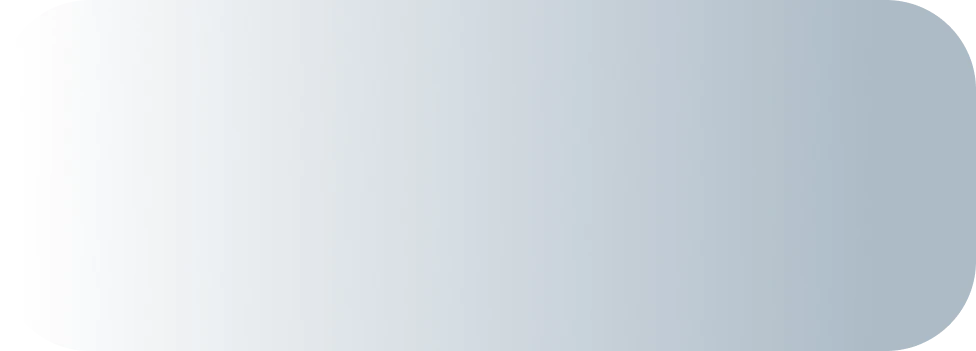
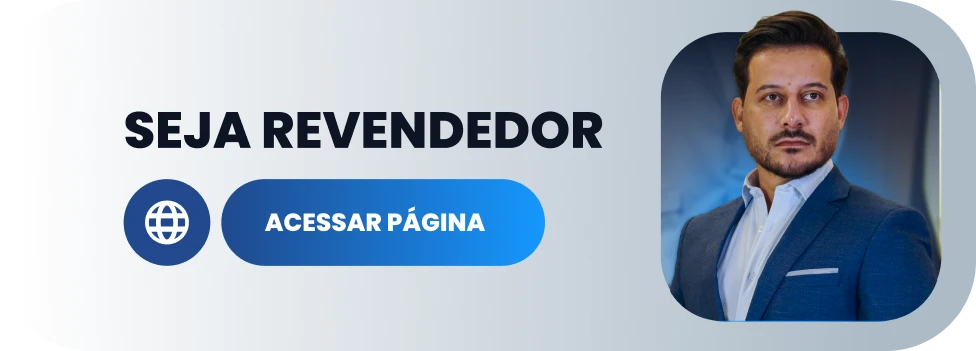
video

diff --git a/script.js b/script.js
@@ -1,3 +1,70 @@
+/* ---------- Reprodução HLS (Mux) ----------
+   O Mux entrega .m3u8. Safari e iOS tocam nativo; nos demais navegadores
+   a hls.js é carregada sob demanda, só quando existe um .m3u8 para tocar.  */
+const HLS_CDN = 'https://cdn.jsdelivr.net/npm/hls.js@1/dist/hls.min.js';
+let hlsCarregando = null;
+
+function carregarHls() {
+    if (window.Hls) return Promise.resolve(window.Hls);
+
+    if (!hlsCarregando) {
+        hlsCarregando = new Promise((resolve, reject) => {
+            const script = document.createElement('script');
+            script.src = HLS_CDN;
+            script.onload = () => resolve(window.Hls);
+            script.onerror = reject;
+            document.head.appendChild(script);
+        });
+    }
+
+    return hlsCarregando;
+}
+
+function destruirHls(elemento) {
+    if (elemento && elemento._hls) {
+        elemento._hls.destroy();
+        elemento._hls = null;
+    }
+}
+
+// Aponta o <video> para a fonte, escolhendo o caminho certo (.m3u8 ou arquivo)
+function definirFonteDoVideo(elemento, src) {
+    destruirHls(elemento);
+
+    const ehHls = /\.m3u8(\?|$)/i.test(src);
+
+    if (!ehHls) {
+        elemento.src = src;
+        elemento.load();
+        return;
+    }
+
+    // Safari e iOS tocam HLS sem biblioteca
+    if (elemento.canPlayType('application/vnd.apple.mpegurl')) {
+        elemento.src = src;
+        elemento.load();
+        return;
+    }
+
+    carregarHls()
+        .then((Hls) => {
+            if (!Hls || !Hls.isSupported()) {
+                elemento.src = src;
+                elemento.load();
+                return;
+            }
+
+            const hls = new Hls({ enableWorker: true });
+            hls.loadSource(src);
+            hls.attachMedia(elemento);
+            elemento._hls = hls;
+        })
+        .catch(() => {
+            elemento.src = src;
+            elemento.load();
+        });
+}
+
 const popup = document.getElementById('video-popup');
 const popupBox = popup ? popup.querySelector('.popup-box') : null;
 const video = popup ? popup.querySelector('.popup-video') : null;
@@ -5,11 +72,16 @@ const openBtn = document.getElementById('open-popup');
 const closeBtn = document.getElementById('close-popup');
 const muteBtn = document.getElementById('mute-btn');
 const expandBtn = document.getElementById('popup-expand');
+
+// O aviso de som some de vez depois do primeiro clique no botão
+let avisoSomVisto = false;
 const chatBubble = document.getElementById('chat-bubble');
 const progressContainer = document.getElementById('story-progress');
 const shareBtn = document.getElementById('share-btn');
+/* Vídeos do popup da história (topo).
+   Playback ID do Mux vira: https://stream.mux.com/PLAYBACK_ID.m3u8 */
 const stories = [
-    { src: 'video/video8.mp4' }
+    { src: 'https://stream.mux.com/Bip1E47IJ9GFIdTXvzC4x9heMzkRGPD2TBZpv56xo7E.m3u8' }
 
 ];
  
@@ -93,8 +165,7 @@ function loadStory(index) {
         return;
     }
 
-    video.src = stories[index].src;
-    video.load();
+    definirFonteDoVideo(video, stories[index].src);
     video.currentTime = 0;
     video.muted = isMuted;
 
@@ -149,6 +220,7 @@ function openPopup() {
         muteBtn.textContent = '🔇';
         muteBtn.setAttribute('aria-label', 'Ativar som');
     }
+    popup.classList.toggle('is-hint', !avisoSomVisto);
     loadStory(0);
     setTimeout(startStoryProgress, 120);
 }
@@ -160,8 +232,10 @@ function closePopup() {
     clearStoryTimer();
     video.pause();
     video.currentTime = 0;
+    destruirHls(video);
     video.removeAttribute('src');
     video.load();
+    if (popupBox) popupBox.style.removeProperty('--ratio'); // volta ao padrão do CSS
     progressElapsed = 0;
     isMuted = true;
     isPaused = false;
@@ -189,6 +263,9 @@ if (muteBtn && video) {
         video.muted = isMuted;
         muteBtn.textContent = isMuted ? '🔇' : '🔊';
         muteBtn.setAttribute('aria-label', isMuted ? 'Ativar som' : 'Silenciar');
+
+        avisoSomVisto = true;
+        popup.classList.remove('is-hint');
     });
 }
 
@@ -281,6 +358,11 @@ if (video) {
     });
 
     video.addEventListener('loadedmetadata', () => {
+        // A caixa assume a proporção real do vídeo (retrato, quadrado ou paisagem)
+        if (popupBox && video.videoWidth && video.videoHeight) {
+            popupBox.style.setProperty('--ratio', (video.videoWidth / video.videoHeight).toFixed(4));
+        }
+
         if (popup && popup.classList.contains('active')) {
             progressElapsed = 0;
             startStoryProgress();
@@ -429,6 +511,7 @@ function startStoryLoop() {
 function clearStoryMedia() {
     if (storyMedia && storyMedia.tagName === 'VIDEO') {
         storyMedia.pause();
+        destruirHls(storyMedia);
         storyMedia.removeAttribute('src');
         storyMedia.load();
     }
@@ -449,7 +532,7 @@ function closeStoryModal() {
     stopStoryLoop();
     clearStoryMedia();
     clearEndCard();
-    videoModal.classList.remove('active', 'is-paused', 'is-image');
+    videoModal.classList.remove('active', 'is-paused', 'is-image', 'is-hint');
     groupIndex = -1;
     itemIndex = 0;
     storyElapsed = 0;
@@ -467,6 +550,8 @@ function setStoryMuted(muted) {
         videoModalMute.textContent = muted ? '🔇' : '🔊';
         videoModalMute.setAttribute('aria-label', muted ? 'Ativar som' : 'Silenciar');
     }
+
+    videoModal.classList.toggle('is-hint', muted && !avisoSomVisto);
 }
 
 function showItem(index) {
@@ -489,12 +574,12 @@ function showItem(index) {
 
     if (isVideo) {
         const video = document.createElement('video');
-        video.src = item.src;
         video.playsInline = true;
         video.autoplay = true;
         video.preload = 'auto';
         video.muted = storyMuted;
         video.setAttribute('playsinline', '');
+        definirFonteDoVideo(video, item.src); // aceita .mp4 e .m3u8 do Mux
 
         video.addEventListener('loadedmetadata', () => {
             storyDuration = (video.duration && Number.isFinite(video.duration))
@@ -714,7 +799,9 @@ if (videoModalEndExit) videoModalEndExit.addEventListener('click', closeStoryMod
 if (videoModalMute) {
     videoModalMute.addEventListener('click', (event) => {
         event.stopPropagation();
+        avisoSomVisto = true;
         setStoryMuted(!storyMuted);
+        videoModal.classList.remove('is-hint');
     });
 }
 

diff --git a/index.html b/index.html
@@ -22,6 +22,7 @@
         })(window, document, "clarity", "script", "tfwazt7wte");
     </script>
     <title>Don Diego Teixeira</title>
+    <link rel="preconnect" href="https://stream.mux.com">
     <link rel="preconnect" href="https://fonts.googleapis.com">
     <link rel="preconnect" href="https://fonts.gstatic.com" crossorigin>
     <link href="https://fonts.googleapis.com/css2?family=Poppins:wght@400;500;600;700;800;900&display=swap"
@@ -30,7 +31,10 @@
     <link rel="icon" type="image/png" sizes="16x16" href="favicon_io/favicon-16x16.png">
     <link rel="apple-touch-icon" sizes="180x180" href="favicon_io/apple-touch-icon.png">
     <link rel="manifest" href="favicon_io/site.webmanifest">
-    <link rel="stylesheet" href="style.css?v=43">
+    <link rel="stylesheet" href="style.css?v=50">
+
+
+
 </head>
 
 <body>
@@ -42,6 +46,7 @@
             <button class="popup-close" id="close-popup" aria-label="Fechar">&#x2715;</button>
             <button class="popup-expand" id="popup-expand" aria-label="Tela cheia">&#9974;</button>
             <button class="popup-mute" id="mute-btn" aria-label="Ativar som">🔇</button>
+            <span class="sound-hint" id="popup-sound-hint">Toque para ativar o som</span>
             <video class="popup-video" src="video/video8.mp4" playsinline muted preload="metadata"
                 aria-label="Vídeo do Don Diego Style">
                 Seu navegador não suporta reprodução de vídeo.
@@ -59,11 +64,10 @@
             <button class="video-modal__close" id="video-modal-close" aria-label="Fechar">&#x2715;</button>
             <button class="video-modal__expand" id="video-modal-expand" aria-label="Tela cheia">&#9974;</button>
             <button class="video-modal__mute" id="video-modal-mute" aria-label="Ativar som">🔇</button>
+            <span class="sound-hint" id="story-sound-hint">Toque para ativar o som</span>
 
             <!-- Fim dos stories do artista: convite para o próximo -->
             <div class="video-modal__end" id="video-modal-end">
-                <p class="video-modal__end-title">Acabou por aqui</p>
-
                 <button class="video-modal__end-btn" id="video-modal-next-group" type="button">
                     <span class="video-modal__end-ring">
                         <svg class="video-modal__end-timer" id="video-modal-timer" viewBox="0 0 100 100"
@@ -134,26 +138,14 @@
                     target="_blank" rel="noopener noreferrer">
                     <img src="img/img1.webp" alt="imagem de um botão">
                 </a>
-        
-                <a class="link"
+
+                      <a class="link"
                     href="https://wa.me/5582994095090?text=Ol%C3%A1!%20Vim%20pelo%20instagram%20e%20tenho%20interesse%20em%20comprar"
                     target="_blank" rel="noopener noreferrer">
-                    <img src="img/img2.webp" alt="imagem de um botão">
+                    <img src="img/img6.webp" alt="imagem de um botão">
                 </a>
         
-                <a class="link"
-                    href="https://wa.me/5582994095090?text=Ol%C3%A1!%20Vim%20pelo%20instagram%20e%20tenho%20interesse%20em%20comprar"
-                    target="_blank" rel="noopener noreferrer">
-                    <img src="img/img3.webp" alt="imagem de um botão">
-                </a>
-        
-                <a class="link"
-                    href="https://wa.me/5582994095090?text=Ol%C3%A1!%20Vim%20pelo%20instagram%20e%20tenho%20interesse%20em%20comprar"
-                    target="_blank" rel="noopener noreferrer">
-                    <img src="img/img4.webp" alt="imagem de um botão">
-                </a>
-        
-                <a class="link"
+                    <a class="link"
                     href="https://wa.me/5582994095090?text=Ol%C3%A1!%20Vim%20pelo%20instagram%20e%20tenho%20interesse%20em%20comprar"
                     target="_blank" rel="noopener noreferrer">
                     <img src="img/img5.webp" alt="imagem de um botão">
@@ -162,8 +154,24 @@
                 <a class="link"
                     href="https://wa.me/5582994095090?text=Ol%C3%A1!%20Vim%20pelo%20instagram%20e%20tenho%20interesse%20em%20comprar"
                     target="_blank" rel="noopener noreferrer">
-                    <img src="img/img6.webp" alt="imagem de um botão">
+                    <img src="img/img2.webp" alt="imagem de um botão">
                 </a>
+                
+                <a class="link"
+                    href="https://wa.me/5582994095090?text=Ol%C3%A1!%20Vim%20pelo%20instagram%20e%20tenho%20interesse%20em%20comprar"
+                    target="_blank" rel="noopener noreferrer">
+                    <img src="img/img4.webp" alt="imagem de um botão">
+                </a>
+        
+        
+                <a class="link"
+                    href="https://wa.me/5582994095090?text=Ol%C3%A1!%20Vim%20pelo%20instagram%20e%20tenho%20interesse%20em%20comprar"
+                    target="_blank" rel="noopener noreferrer">
+                    <img src="img/img3.webp" alt="imagem de um botão">
+                </a>
+        
+            
+          
         
             </div>
 
@@ -254,7 +262,7 @@
 
     </main>
 
-    <script defer src="script.js?v=43"></script>
+    <script defer src="script.js?v=50"></script>
 </body>
 
 </html>

diff --git a/style.css b/style.css
@@ -608,12 +608,6 @@ body.is-loaded .topbar__perfil img {
 
 .video-modal.is-end .video-modal__end { display: flex; }
 
-.video-modal__end-title {
-    font-size: 13px;
-    font-weight: 500;
-    color: rgba(255, 255, 255, .65);
-}
-
 .video-modal__end-btn {
     display: flex;
     flex-direction: column;
@@ -735,6 +729,54 @@ body.is-loaded .topbar__perfil img {
     background: #38c6ff;
 }
 
+/* ---------- Aviso "ative o som" ---------- */
+.sound-hint {
+    position: absolute;
+    right: 12px;
+    bottom: 54px;
+    z-index: 9;
+    padding: 6px 12px;
+    border-radius: 999px;
+    background: rgba(0, 0, 0, .7);
+    backdrop-filter: blur(4px);
+    color: var(--white);
+    font-family: inherit;
+    font-size: 11.5px;
+    font-weight: 500;
+    line-height: 1;
+    white-space: nowrap;
+    pointer-events: none;
+    opacity: 0;
+    visibility: hidden;
+    transform: translateY(6px);
+    transition: opacity .25s ease, transform .25s ease, visibility .25s;
+}
+
+/* Só aparece enquanto o usuário não ativou o som */
+.popup-overlay.is-hint .sound-hint,
+.video-modal.is-hint .sound-hint {
+    opacity: 1;
+    visibility: visible;
+    transform: translateY(0);
+    animation: sound-hint-pulse 1.8s ease-in-out infinite;
+}
+
+@keyframes sound-hint-pulse {
+    0%, 100% { transform: translateY(0); }
+    50%      { transform: translateY(-3px); }
+}
+
+@media (prefers-reduced-motion: reduce) {
+    .popup-overlay.is-hint .sound-hint,
+    .video-modal.is-hint .sound-hint { animation: none; }
+}
+
+/* Story de imagem não tem som: esconde o aviso junto com o mute */
+.video-modal.is-image .sound-hint {
+    opacity: 0;
+    visibility: hidden;
+}
+
 /* Story de imagem não tem som: esconde o mute */
 .video-modal.is-image .video-modal__mute {
     opacity: 0;
@@ -830,12 +872,16 @@ body.is-loaded .topbar__perfil img {
 
 .popup-box {
     position: relative;
-    /* ocupa pouco mais da metade da tela */
-    height: 70vh;
-    width: auto;
+    /* --ratio é trocado pelo JS pela proporção real do vídeo (largura ÷ altura).
+       A largura sai da altura desejada, então a caixa acompanha qualquer formato. */
+    --ratio: 0.5625; /* 9/16 enquanto o vídeo não carrega */
+    --altura: min(70vh, 620px);
+    aspect-ratio: var(--ratio);
+    width: min(90vw, calc(var(--altura) * var(--ratio)));
+    height: auto;
     max-width: 90vw;
-    max-height: 620px;
-    aspect-ratio: 9 / 16;
+    /* vídeo deitado não deixa a caixa virar uma faixa fina */
+    min-height: min(52vh, 460px);
     background: var(--panel);
     border-radius: 16px;
     overflow: hidden;
